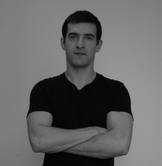
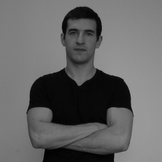
Make profile picture round

diff --git a/main.css b/main.css
@@ -1,3 +1,4 @@
+/* Add shadows to at least avatar, maybe paper-like background to card? */
 html, body {
 	height: 100%;
 	width: 100%;
@@ -61,7 +62,10 @@ a:hover {
 	border: 0.7em #F72 solid;
 	margin-bottom: 0.5em;
 	margin-right: 1em;
-	float: left;		
+	float: left;
+	-webkit-border-radius: 6em;
+	-moz-border-radius: 6em;
+	border-radius: 6em;		
 }
 
 .profile .name,
@@ -97,3 +101,5 @@ a:hover {
 	display: inline;
 	margin: 1em 0.5em;
 } 
+
+

diff --git a/index.html b/index.html
@@ -13,7 +13,7 @@
 				<div class="centered">
 					<div class="separator"></div>	
 					<div class="profile">
-						<img class="avatar" src="img/leonti.png" />
+						<img class="avatar" src="img/leonti.png" alt="Leonty Belskiy" />
 						<h1 class="name">Leonty Belskiy</h1>
 						<h2 class="tagline">Simply awesome</h2>
 						<ul class="links">
